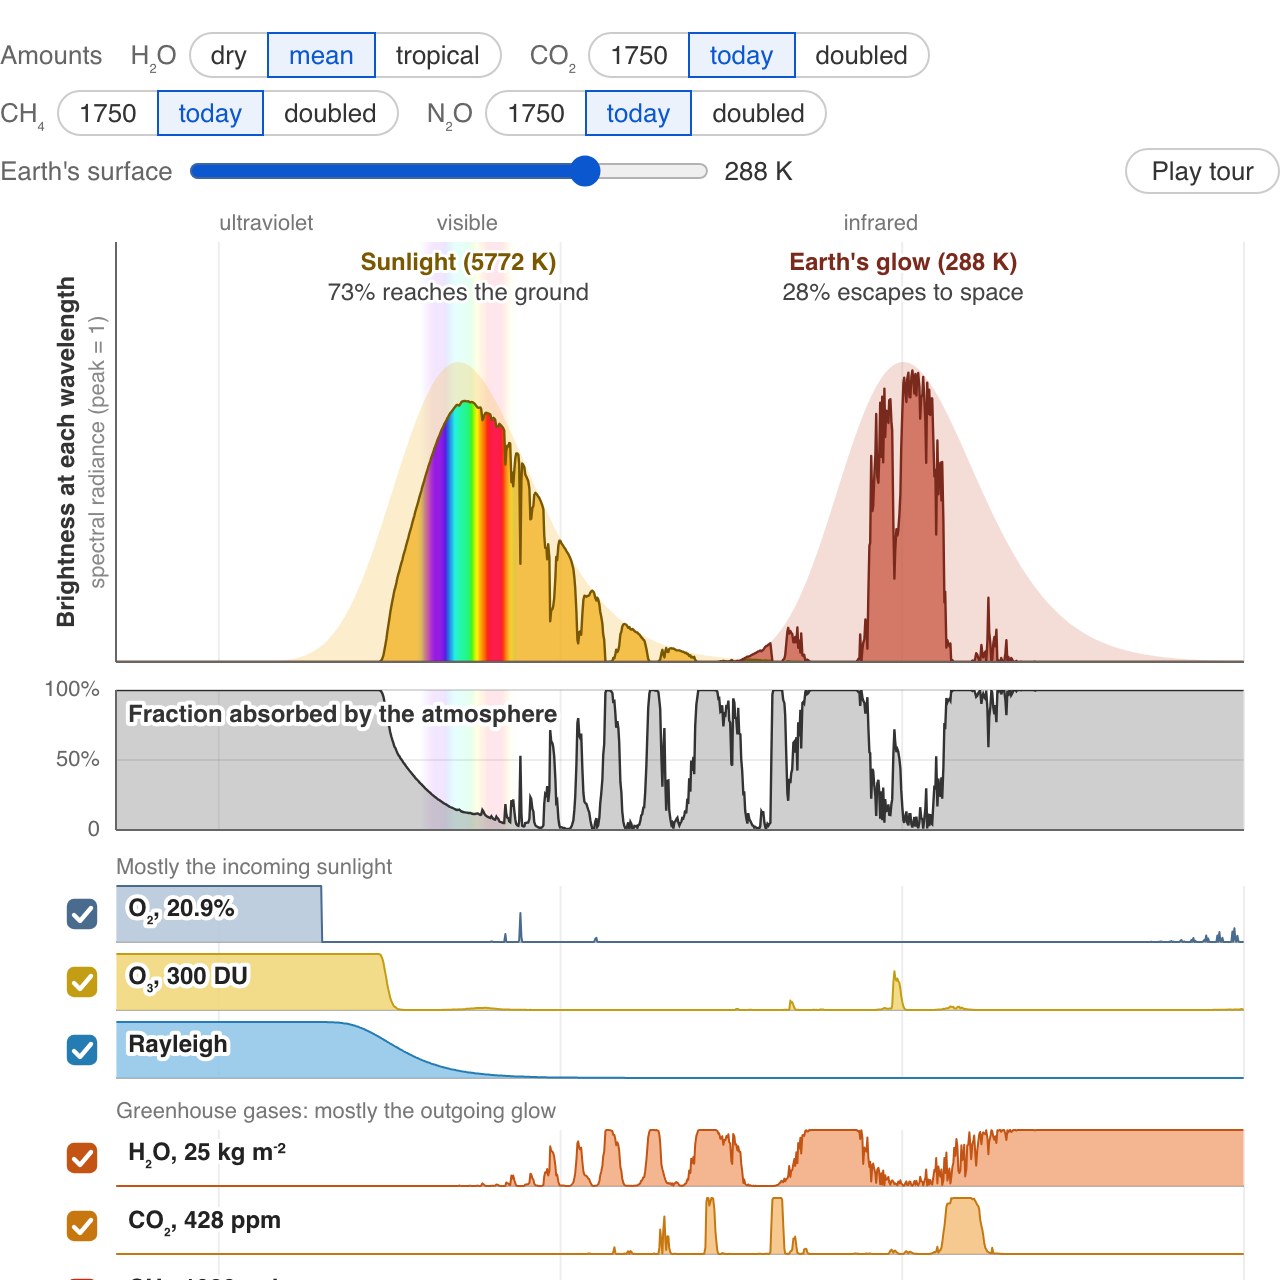
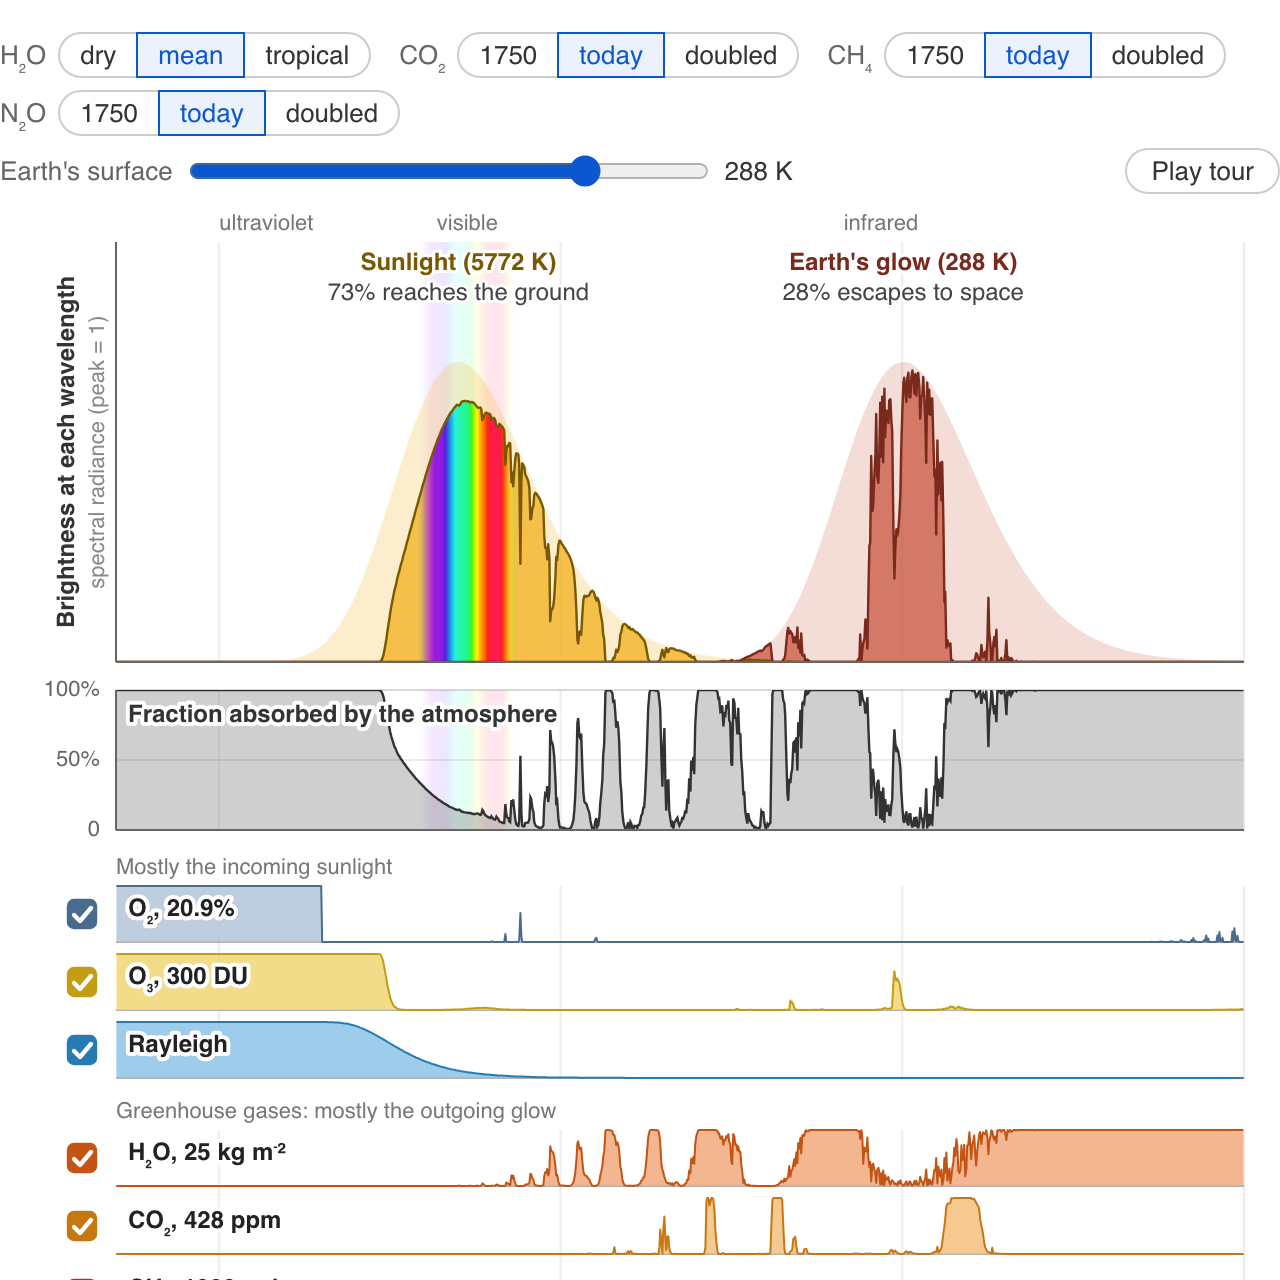
Drop the "Amounts" label from the transmission widget's controls
The formulas heading each segmented control say what it is.

Changed region(s): [[0.0, 0.0312, 0.9688, 0.0938]]

diff --git a/src/atmospheric-transmission/widget.js b/src/atmospheric-transmission/widget.js
@@ -218,14 +218,14 @@ export function createAtmosphericTransmissionWidget({data, width = FIGURE_WIDTH,
     "padding:3px 12px;cursor:pointer;";
 
   // The amounts on the first row of the controls, one segmented control per gas that has
-  // them (they wrap when there is no room). The buttons say when (1750, today, doubled);
-  // the amount itself is in the button's tooltip and in the gas's row. The second row is
-  // the surface temperature slider, with the tour button at its right.
+  // them, each headed by the gas's formula (they wrap when there is no room). The buttons
+  // say when or where (1750, today, doubled; dry, mean, tropical); the amount itself is in
+  // the button's tooltip and in the gas's row. The second row is the surface temperature
+  // slider, with the tour button at its right.
   const amountButtons = new Map(); // gas -> its buttons
   if (VARIANT.length) {
     const bar = document.createElement("div");
     bar.style.cssText = "display:flex;flex-wrap:wrap;align-items:center;gap:6px 14px;flex-basis:100%;";
-    bar.append("Amounts");
     for (const g of VARIANT) {
       const group = document.createElement("div");
       group.style.cssText = "display:inline-flex;align-items:center;gap:6px;";
